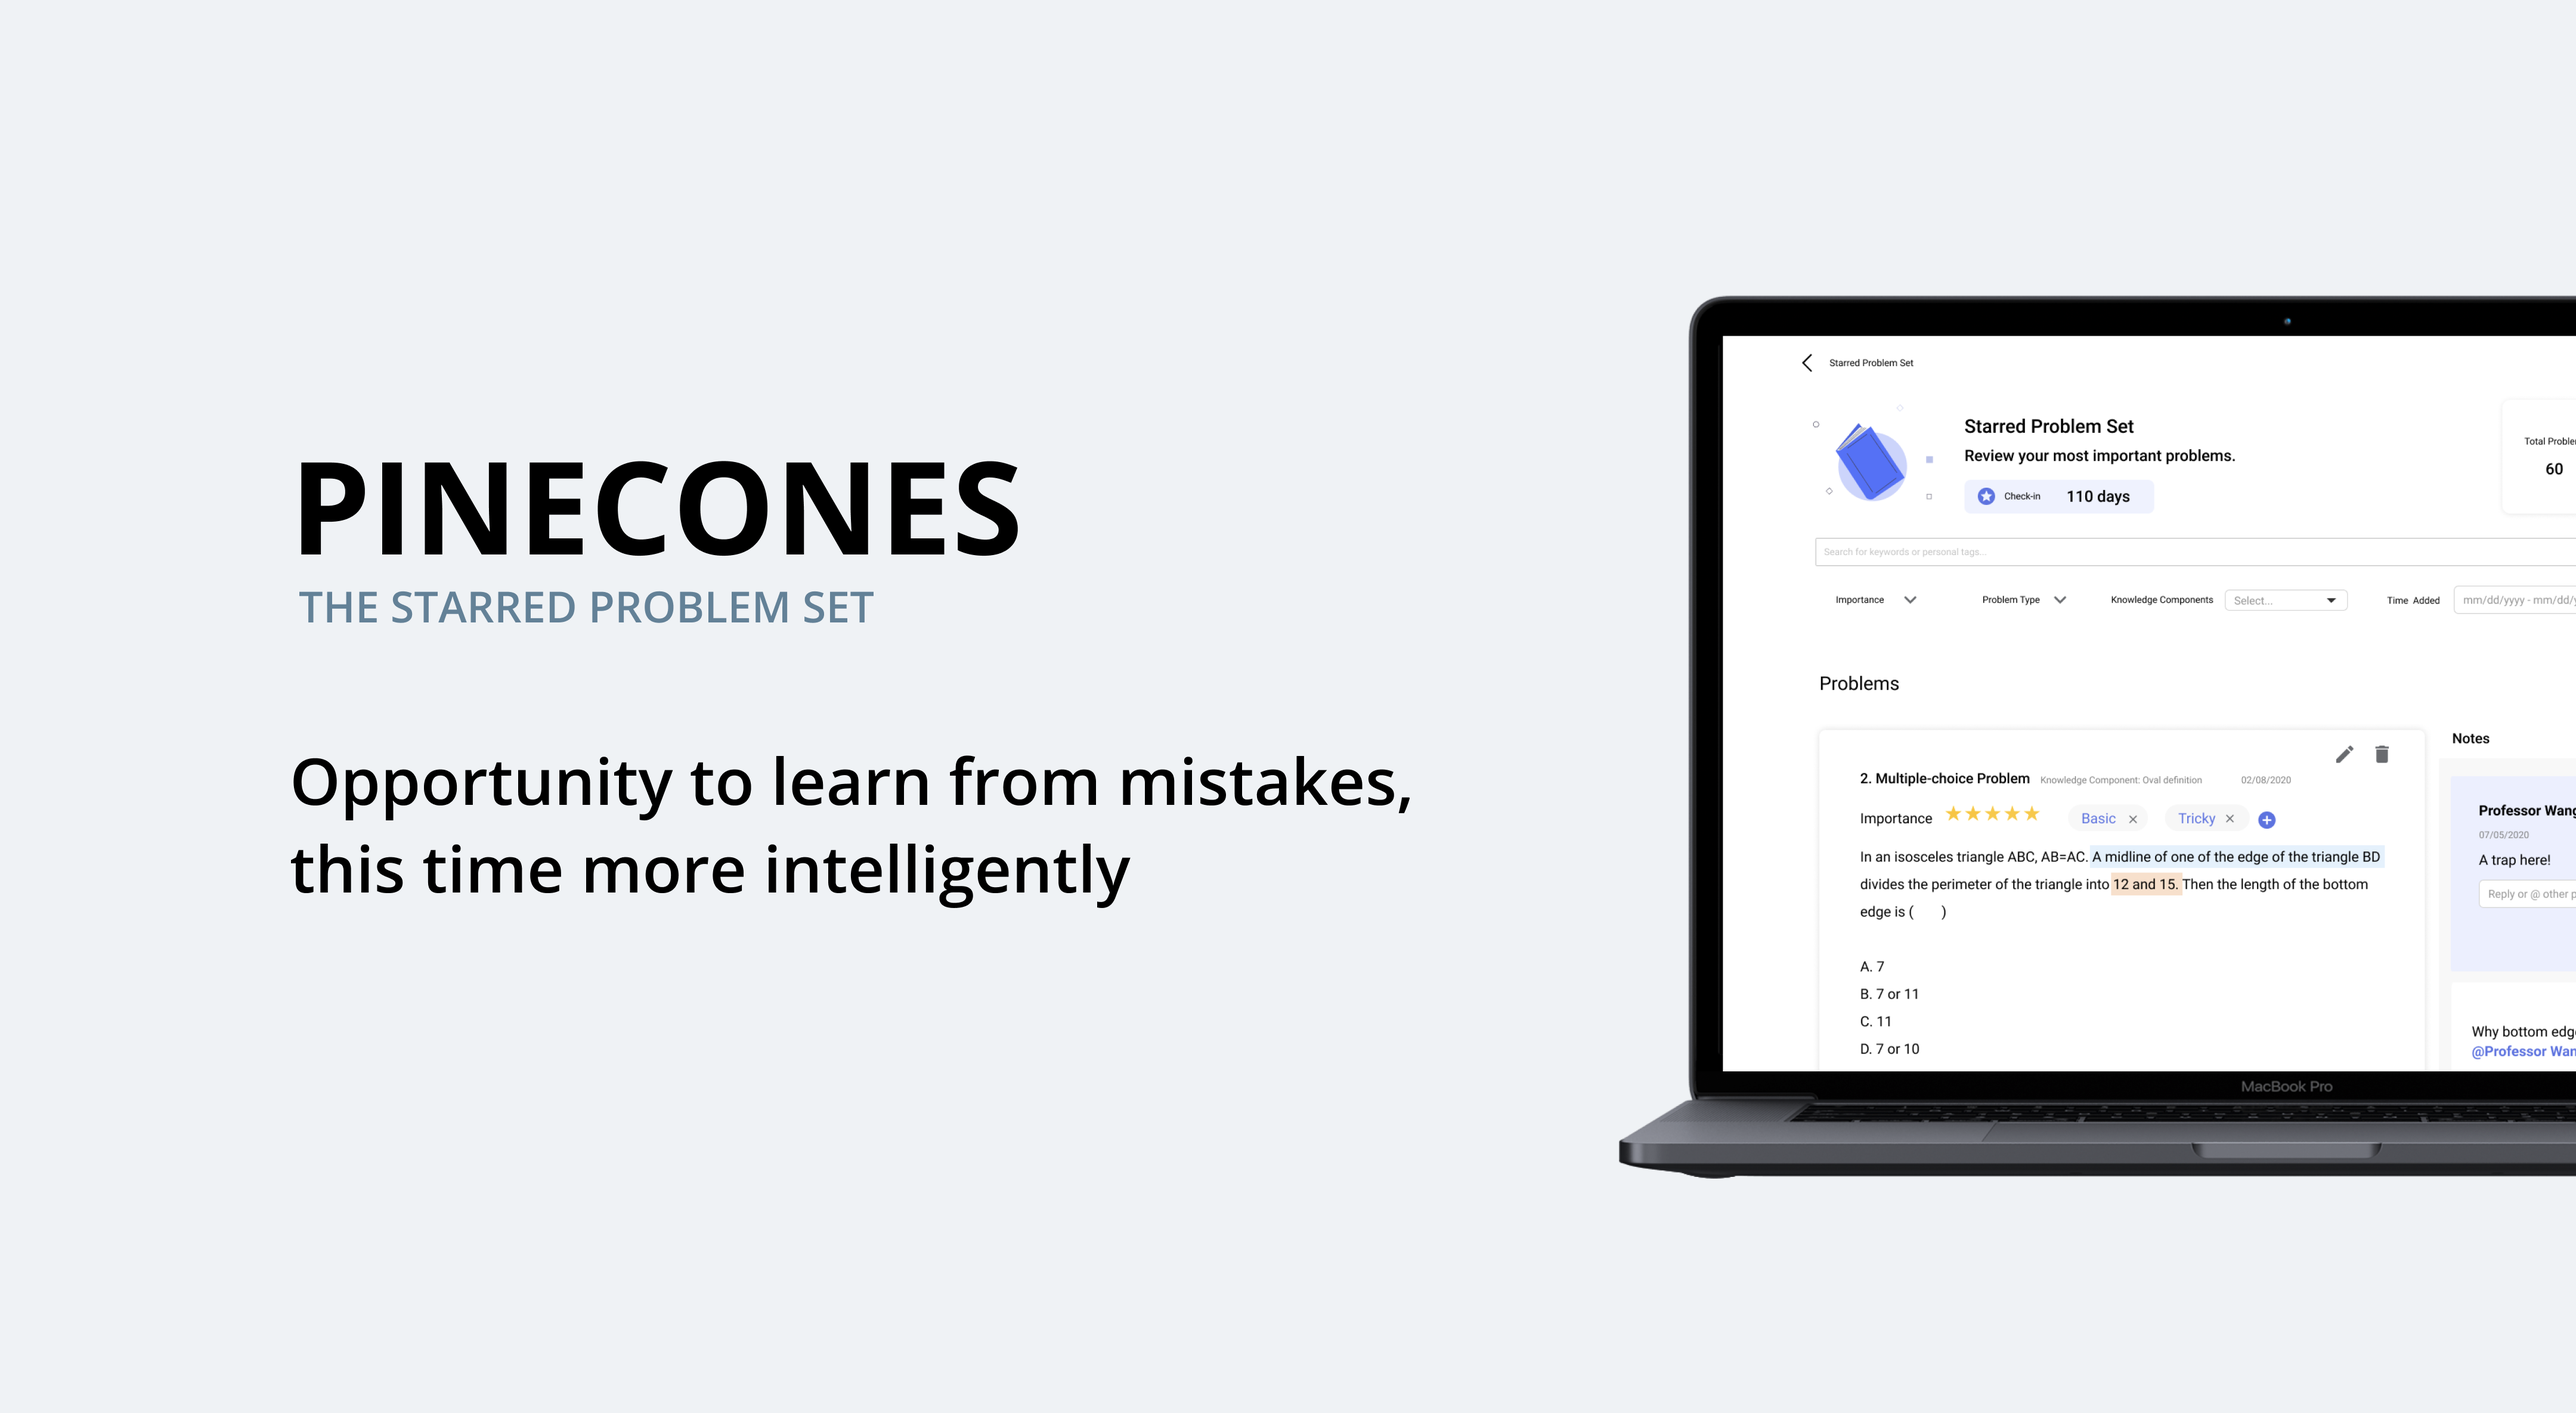
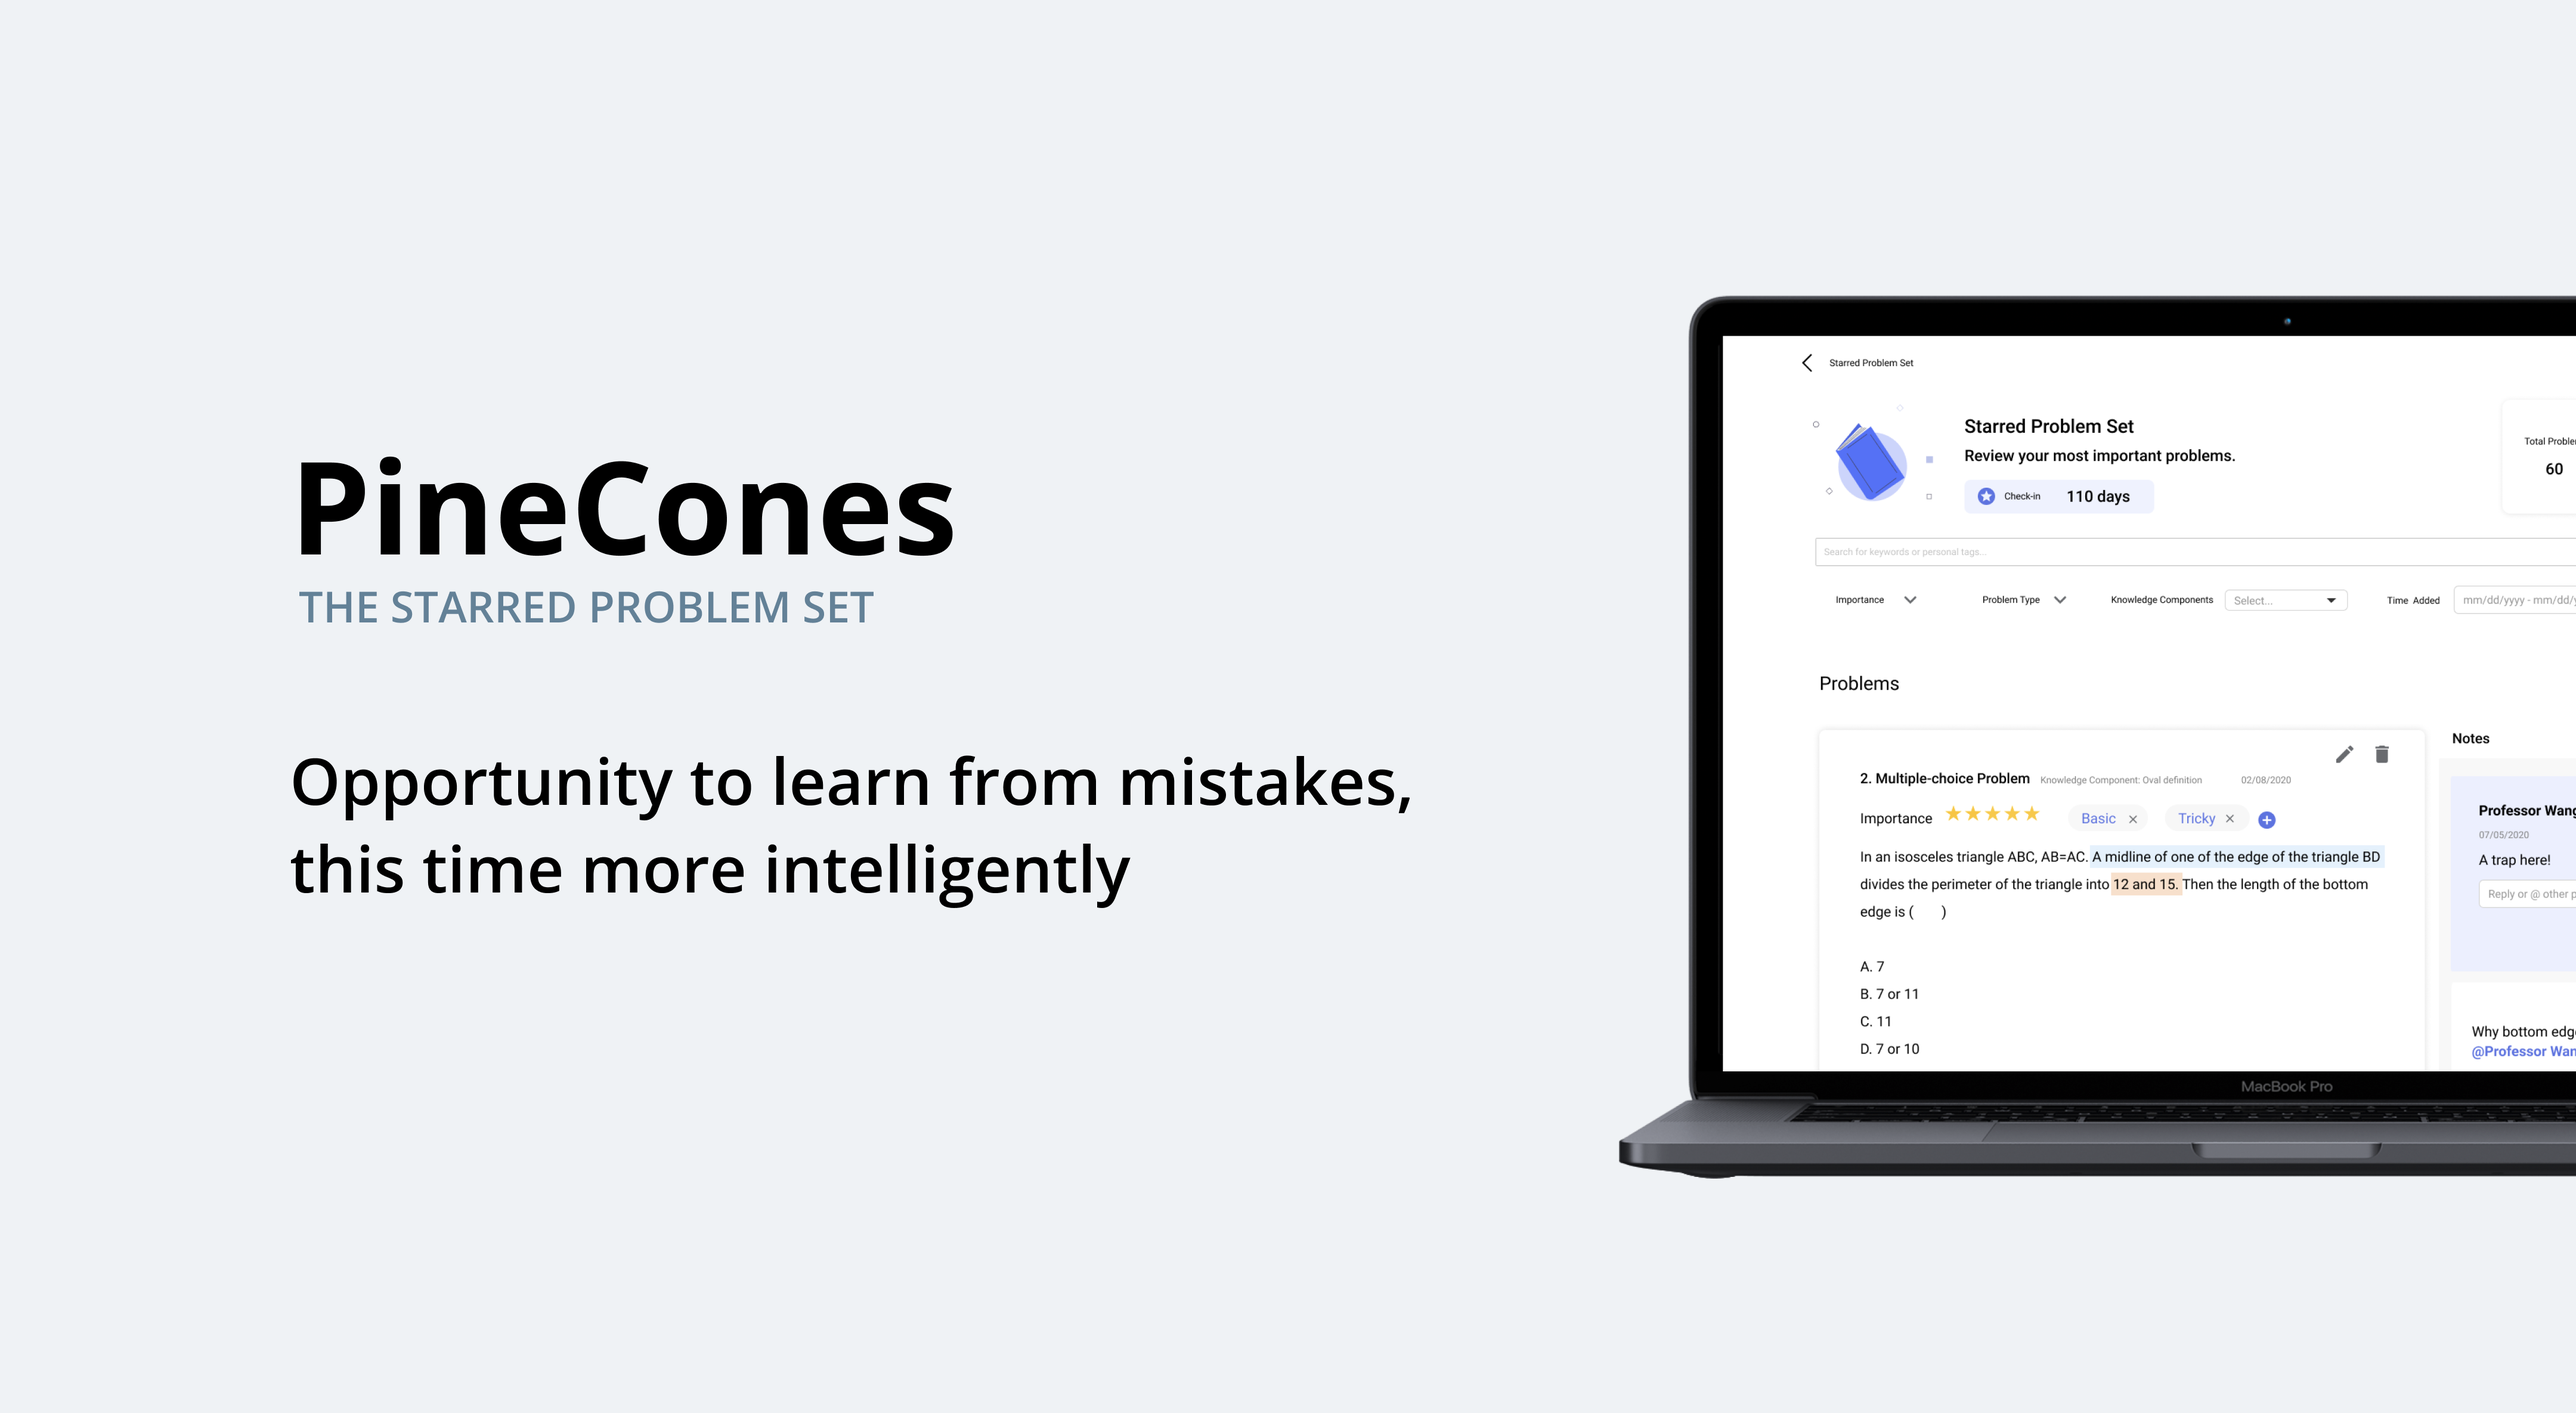
change text style & add eurekas images

Changed region(s): [[0.1562, 0.3122, 0.4062, 0.4059]]

diff --git a/css/style_new.css b/css/style_new.css
@@ -9908,7 +9908,7 @@ img {
 }
 
 .dreyHeading {
-    font-family: "Avenir Next";
+    font-family: "Open Sans";
     font-weight: 300;
     font-size: 24px;
     margin-bottom: 60px;
@@ -9916,7 +9916,7 @@ img {
 }
 
 .dreyBody {
-    font-family: "Avenir Next";
+    font-family: "Open Sans";
     font-weight: 300;
     font-size: 16px;
     margin-bottom: 40px;
@@ -9925,7 +9925,7 @@ img {
 
 .dreyBold {
 
-    font-family: "Avenir Next";
+    font-family: "Open Sans";
     font-weight: 600;
     font-size: 16px;
     margin-bottom: 40px;
@@ -9933,7 +9933,7 @@ img {
 }
 
 .dreyHeadingBold {
-    font-family: "Avenir Next";
+    font-family: "Open Sans";
     font-weight: 600;
     font-size: 24px;
     margin-bottom: 60px;
